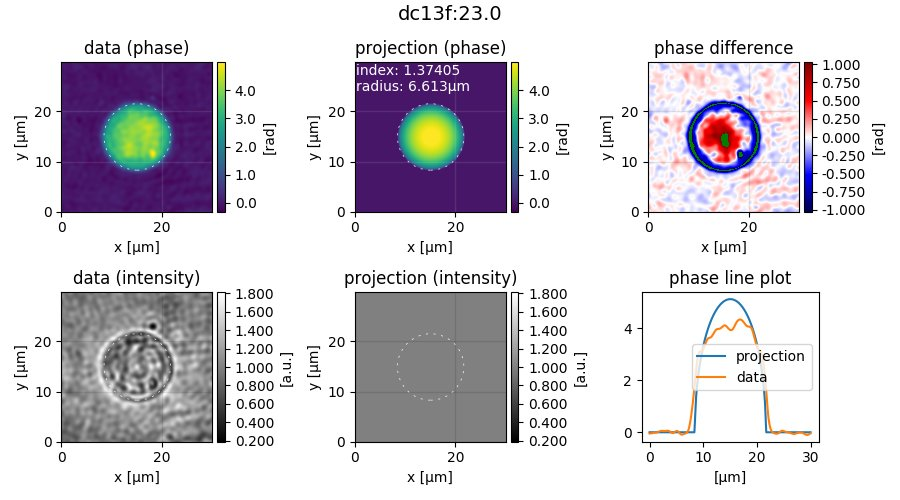
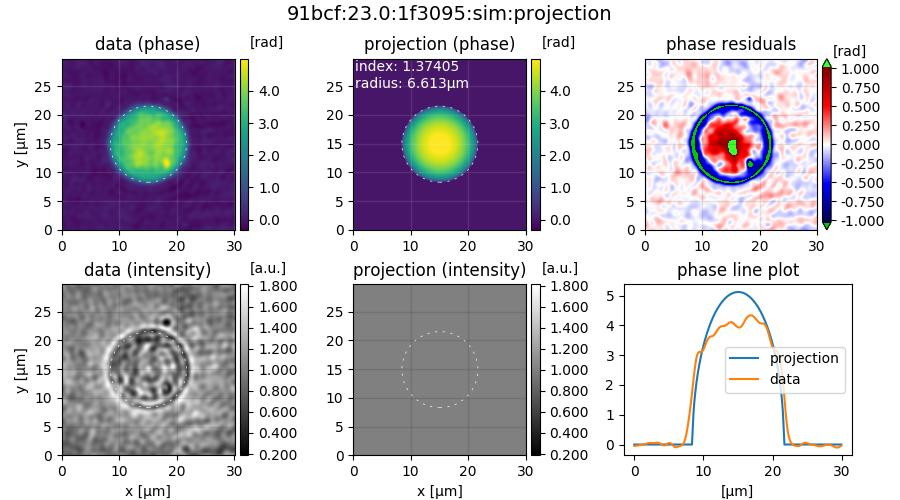
update tutorial figures and text with new plots and automate figure generation

diff --git a/docs/tutorials/t02_make_figures.py b/docs/tutorials/t02_make_figures.py
@@ -1,0 +1,109 @@
+from drymass import cli
+from drymass.extractroi import FILE_SLICES
+import imageio
+import matplotlib.pylab as plt
+import numpy as np
+
+from t02_method_comparison import dot_boxplot
+
+path = "DHM_HL60_cells.zip"
+
+# setup output directory
+path_in, path_out = cli.dialog.main(path)
+
+# set metadata
+cfg = cli.config.ConfigFile(path_out)
+cfg.set_value("meta", "medium index", 1.335)
+cfg.set_value("meta", "pixel size um", 0.107)
+cfg.set_value("meta", "wavelength nm", 633)
+
+# extract ROIs
+cli.cli_extract_roi(path=path_in)
+
+# get image 27
+# Note: Remove the DHM_HL60_cells.zip_dm folder to reproduce the figure
+senpath = path_out / cli.FILE_SENSOR_WITH_ROI_IMAGE
+sentif = imageio.mimread(senpath)[26]
+imageio.imsave("_t02_roi_search1.jpg", sentif[..., :3])
+
+# rerun with updated configuration
+cfg.set_value("specimen", "size um", 13)
+cfg.set_value("roi", "pad border px", 80)
+cfg.set_value("roi", "size variation", .2)
+cfg.set_value("roi", "exclude overlap px", 100)
+cli.cli_extract_roi(path=path_in)
+
+cfg.set_value("roi", "enabled", False)
+# remove ROI slices
+psl = path_out / FILE_SLICES
+pslo = psl.with_name(psl.name + "_original")
+if not pslo.exists():
+    rois = psl.read_text().split("\n")
+    newrois = []
+    ignore = ["7.3", "14.1", "17.1", "17.2", "34.1"]
+    for line in rois:
+        if line.strip():
+            if line.split("\t")[0].split(":")[1] not in ignore:
+                newrois.append(line)
+    assert len(newrois) == 87
+    # rename original ROI file
+    psl.rename(pslo)
+    # create new ROI file
+    psl.write_text("\n".join(newrois))
+
+# bg correction
+cfg.set_value("bg", "phase border px", 30)
+cfg.set_value("bg", "phase profile", "poly2o")
+
+# edge projection
+cfg.set_value("sphere", "method", "edge")
+cfg.set_value("sphere", "model", "projection")
+cli.cli_analyze_sphere(path=path_in)
+
+senpath = path_out / cli.FILE_SPHERE_ANALYSIS_IMAGE.format("edge",
+                                                           "projection")
+sentif = imageio.mimread(senpath)[52]
+imageio.imsave("_t02_edge_projection.jpg", sentif[..., :3])
+
+# image projection
+cfg.set_value("sphere", "method", "image")
+cfg.set_value("sphere", "model", "projection")
+cli.cli_analyze_sphere(path=path_in)
+
+# image rytov
+cfg.set_value("sphere", "method", "image")
+cfg.set_value("sphere", "model", "rytov")
+cli.cli_analyze_sphere(path=path_in)
+
+# image rytov-sc
+cfg.set_value("sphere", "method", "image")
+cfg.set_value("sphere", "model", "rytov-sc")
+cli.cli_analyze_sphere(path=path_in)
+
+senpath = path_out / cli.FILE_SPHERE_ANALYSIS_IMAGE.format("image",
+                                                           "rytov-sc")
+sentif = imageio.mimread(senpath)[52]
+imageio.imsave("_t02_image_rytov-sc.jpg", sentif[..., :3])
+
+# comparison plot
+ri_data = [
+    np.loadtxt(path_out / "sphere_image_rytov-sc_statistics.txt",
+               usecols=(1,)),
+    np.loadtxt(path_out / "sphere_image_rytov_statistics.txt",
+               usecols=(1,)),
+    np.loadtxt(path_out / "sphere_image_projection_statistics.txt",
+               usecols=(1,)),
+    np.loadtxt(path_out / "sphere_edge_projection_statistics.txt",
+               usecols=(1,)),
+    ]
+colors = ["#E48620", "#DE2400", "#6e559d", "#048E00"]
+labels = ["image rytov-sc", "image rytov",
+          "image projection", "edge projection"]
+
+plt.figure(figsize=(8, 5))
+ax = plt.subplot(111, title="HL60 (DHM)")
+ax.set_ylabel("refractive index")
+dot_boxplot(ax=ax, data=ri_data, colors=colors, labels=labels)
+plt.tight_layout()
+plt.savefig("_t02_reproduced_5d.jpg")
+plt.close()

diff --git a/drymass/cli/plot.py b/drymass/cli/plot.py
@@ -242,7 +242,7 @@ def plot_qpi_sphere(qpi_real, qpi_sim, path=None, simtype="simulation"):
     else:
         kw5 = {}
     ax5.set_title(simtype + " (intensity)", **kw5)
-        
+
     plot_image(data=qpi_sim.amp**2, ax=ax5, **kw_inten)
 
     # plot detected radius

diff --git a/docs/tutorials/t03_make_figures.py b/docs/tutorials/t03_make_figures.py
@@ -5,7 +5,7 @@ import matplotlib.pylab as plt
 import qpimage
 
 
-path = "QLSR_PAA_beads_bg-modified.h5"
+path = "QLSR_PAA_beads_modified.h5"
 
 # setup output directory
 path_in, path_out = cli.dialog.main(path)

diff --git a/docs/tutorials/t02_hl60cells.rst b/docs/tutorials/t02_hl60cells.rst
@@ -33,7 +33,13 @@ Find regions of interest
 We proceed slightly different than in :ref:`tutorial 1<tutorial01>`. Before
 we use the command  :ref:`section_dm_analyze_sphere` to extract the RI
 values of the HL60 cells, we have to modify our configuration.
-We start by executing ``dm_extract_roi DHM_HL60_cells.zip`` which prompts
+We start by executing
+
+.. code::
+
+    dm_extract_roi DHM_HL60_cells.zip
+
+which prompts
 us for the *pixel size* (0.107µm), and the *wavelength* (633nm),
 which can be found in the *readme.txt* file inside the zip archive.
 This command imports the raw data and searches for cells in the phase
@@ -49,12 +55,12 @@ following configuration keys in *drymass.cfg*:
 .. code-block:: none
 
   [specimen]
-  size um = 13           # approximate cell diameter we are looking for [µm]
+  size um = 13              # approximate cell diameter we are looking for [µm]
 
   [roi]
-  pad border = 80        # increase border size around cells
-  size variation = 0.2   # do not allow large variations of specimen size
-  exclude overlap = 100  # exclude ROIs with an overlap > 100px
+  pad border px = 80        # increase border size around cells
+  size variation = 0.2      # do not allow large variations of specimen size
+  exclude overlap px = 100  # exclude ROIs with an overlap > 100px
 
 With the new configuration, we run ``dm_extract_roi DHM_HL60_cells.zip`` again.
 Now all cells are detected. However, we want to exclude a few due to artifacts
@@ -64,7 +70,7 @@ in *drymass.cfg*
 .. code-block:: none
 
   [roi]
-  enabled = False        # use existing roi_slices.txt
+  enabled = False           # use existing roi_slices.txt
 
 and remove the undesired ROIs from *roi_slices.txt*, which are
 *7.3, 14.1, 17.1, 17.2* and *34.1*. There should now be a total of 87 ROIs.
@@ -88,7 +94,13 @@ border width to 30 pixels. These are the updated lines in the
 
 Perform sphere analysis
 -----------------------
-We now run ``dm_analyze_sphere DHM_HL60_cells.zip`` and are asked to enter
+We now run
+
+.. code::
+
+    dm_analyze_sphere DHM_HL60_cells.zip
+
+and are asked to enter
 the RI of the medium (1.335). By default, the RI of the cells is computed
 according to :cite:`Schuermann2015`. The following files are created during
 this step:
@@ -200,7 +212,7 @@ To plot the results, we use the
     :language: python
     :linenos:
 
-.. figure:: t02_reproduced_5d.jpg
+.. figure:: t02_reproduced_5d.png
 
 
 Discussion

diff --git a/docs/tutorials/t03_background_geometry.rst b/docs/tutorials/t03_background_geometry.rst
@@ -34,23 +34,23 @@ For this tutorial, you need:
 
 - Python 3.6 or above and DryMass version 0.5.0 or above (see :ref:`section_install`)
 - `Fiji <https://fiji.sc/>`_ or Windows Photo Viewer (for data visualization)
-- Experimental data set: `QLSR_PAA_beads_bg-modified.zip <https://github.com/RI-imaging/QPI-data/raw/master/QLSR_PAA_beads_bg-modified.zip>`_
+- Experimental data set: `QLSR_PAA_beads_modified.zip <https://github.com/RI-imaging/QPI-data/raw/master/QLSR_PAA_beads_modified.zip>`_
 
 
 Take a glimpse at the data
 --------------------------
 For this tutorial, the downloaded zip archive has to be extracted prior
 to the analysis. The extracted archive contains a readme file and the
-experimental data *QLSR_PAA_beads_bg-modified.h5* in the qpimage file format.
+experimental data *QLSR_PAA_beads_modified.h5* in the qpimage file format.
 DryMass can extract all relevant metadata from this file format (in contrast to
 the file formats used in tutorials 1 and 2), such that no manual
 intervention is required when running :ref:`section_dm_analyze_sphere`:
 
 .. code-block:: none
 
-    dm_analyze_sphere C:\\path\to\QLSR_PAA_beads_bg-modified.h5
+    dm_analyze_sphere QLSR_PAA_beads_modified.h5
 
-Please open the output folder (*QLSR_PAA_beads_bg-modified.h5_dm*) and
+Please open the output folder (*QLSR_PAA_beads_modified.h5_dm*) and
 take a look at the file *sensor_roi_images.tif*. You can see
 the different artifacts discussed above (offset, tilt, etc.). In the file
 *sphere_edge_projection_images.tif*, you see that the default

diff --git a/docs/tutorials/t01_ri_bead.rst b/docs/tutorials/t01_ri_bead.rst
@@ -84,15 +84,14 @@ the phase images.
 Note that the modeled intensity image is all-one, because the projection
 model only models the optical thickness and thus only affects the phase data.
 Also, note that the phase-difference image between data and model only has
-small deviations in the background phase. If there were large ramp-like
-structures or offsets, we would have to modify the
-:ref:`background correction <config_bg>`.
+small deviations in the background phase. If the background phase was
+not flat, we would have to modify the :ref:`background correction <config_bg>`.
 
 Post-processing
 ---------------
 A closer examination of the phase-difference images shows that there seem to
 be either deformed beads or imaging artifacts in the images with the identifiers
-(prepend *85449:*): *3.0, 6.0, 23.0, 25.0, 26.0, 34.0, 35.0, 38.0, 39.0, 50.0,
+(prepend *e8717:*): *3.0, 6.0, 23.0, 25.0, 26.0, 34.0, 35.0, 38.0, 39.0, 50.0,
 51.0, 54.0, 57.0, 59.0, 63.0, 66.0,* and *70.0*. Due to their asymmetry
 we ignore these images in our analysis by removing the respective rows
 from *sphere_edge_projection_statistics.txt* (Note that this file will be
